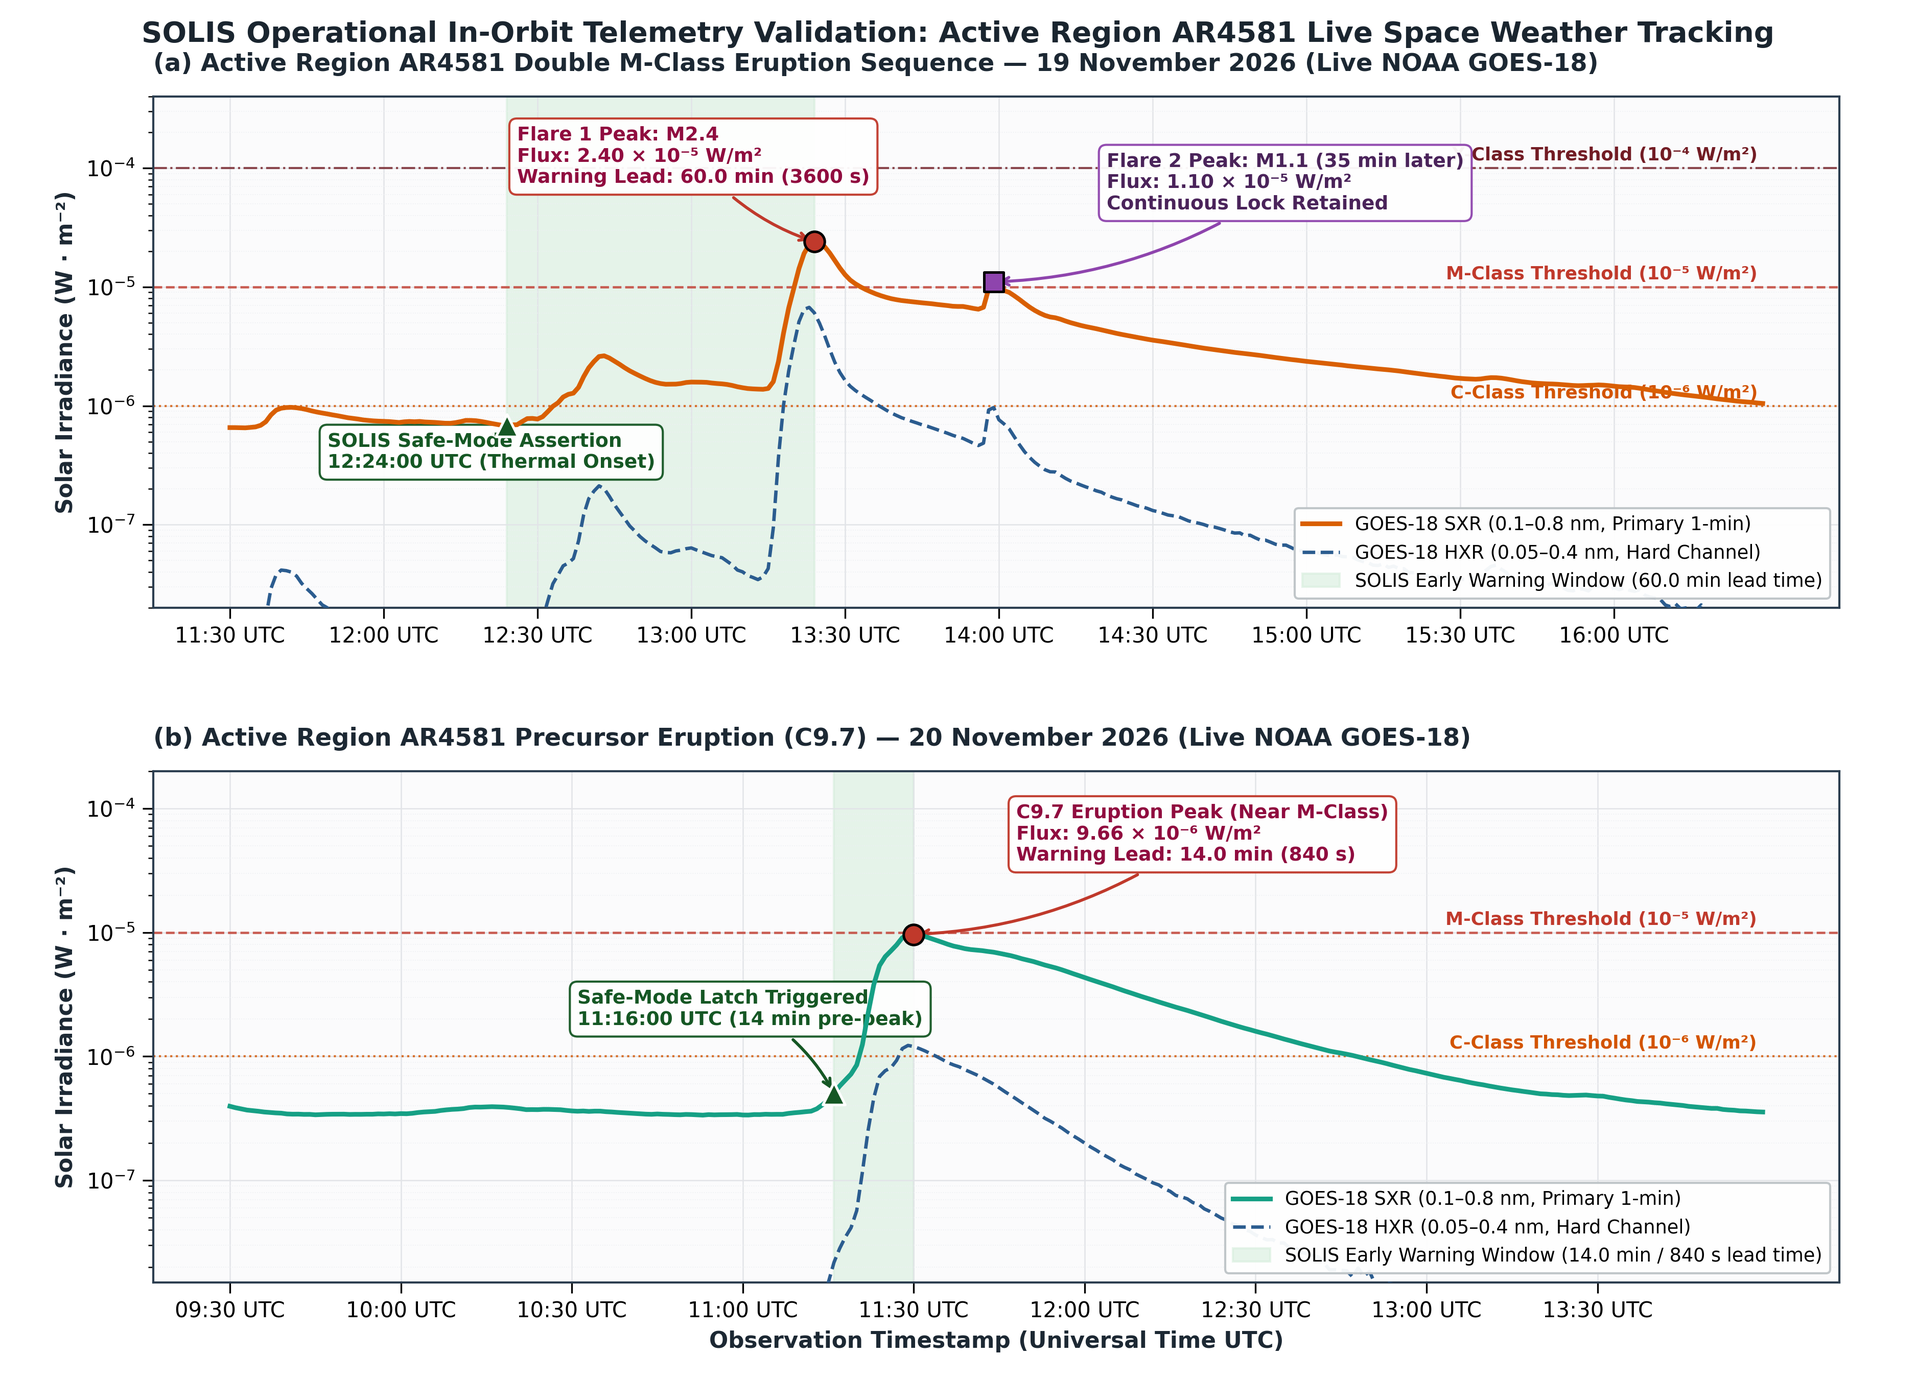
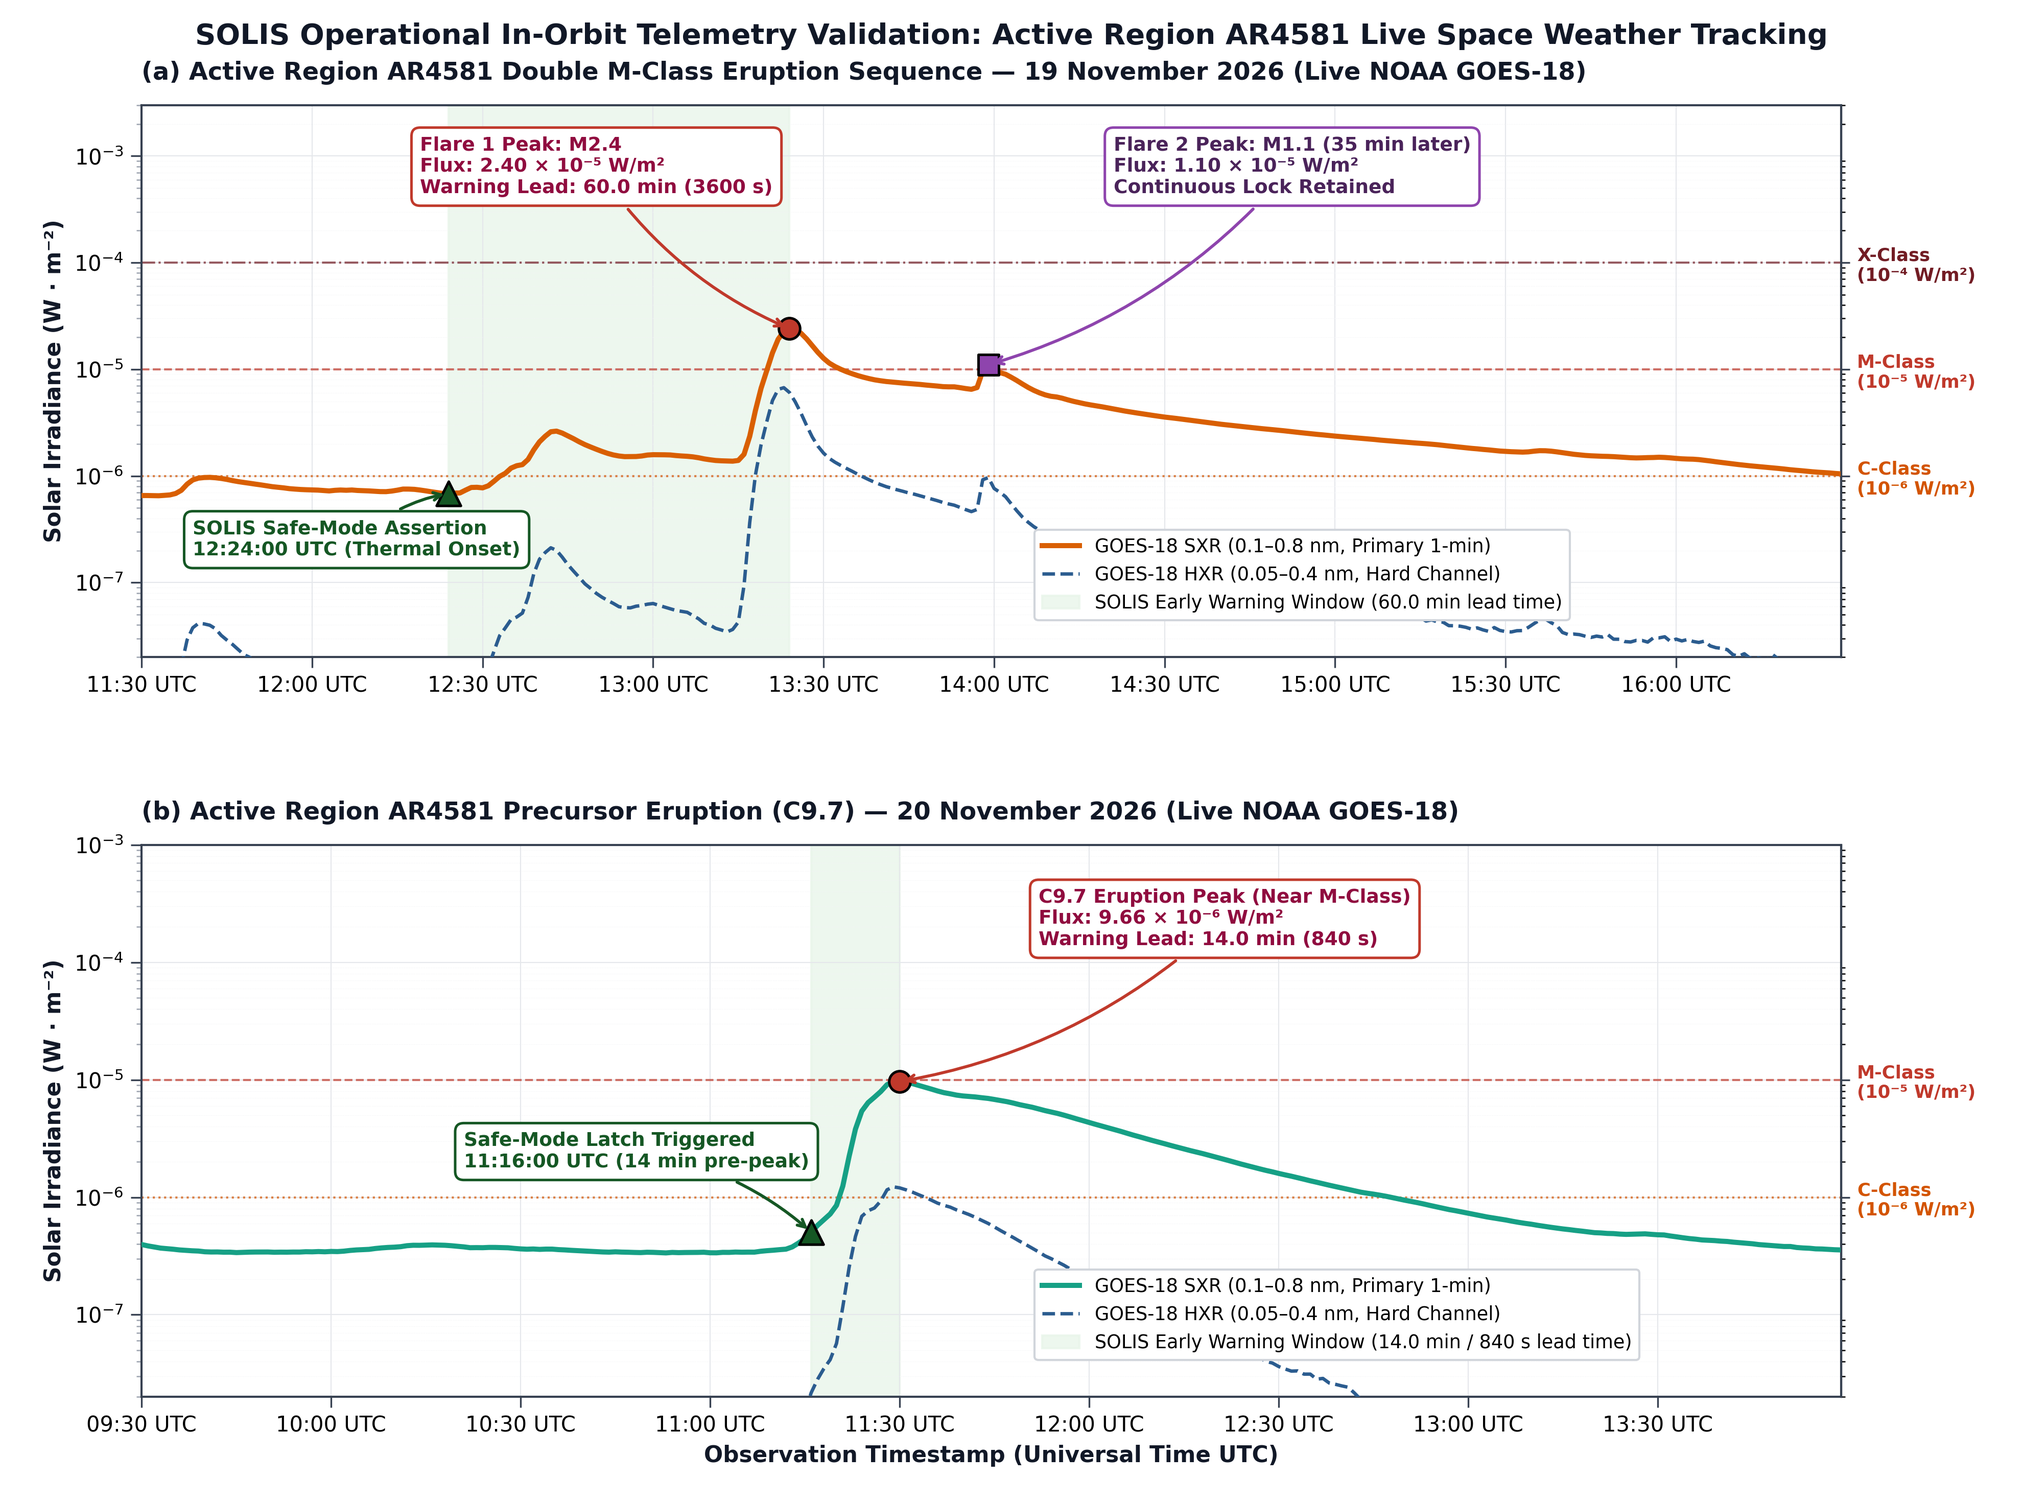
Fix Section 5 code block formatting in README and update validation plot with dual-axis classification

diff --git a/python_pipeline/plot_live_validation.py b/python_pipeline/plot_live_validation.py
@@ -2,25 +2,22 @@
 """
 Publication-Quality Figure Generator for SOLIS Live Telemetry Validation (AR4581)
 Designed for peer-reviewed space science / aerospace engineering manuscripts & GitHub showcase.
-Zero overlapping text, generous headroom, clear lead-time shading, and professional typography.
+Zero overlapping text, generous headroom, dual-axis flare classification, and clean typography.
 """
 
 import json
 import matplotlib.pyplot as plt
-import matplotlib.ticker as ticker
 import numpy as np
 from pathlib import Path
 
 # Paths
-DATA_FILE = Path(r"C:\Users\brr33\Downloads\SOLIS-Solar-Flare-Edge\python_pipeline\datasets\noaa_goes18_xray_7day_live.json")
-RESULTS_FILE = Path(r"C:\Users\brr33\Downloads\SOLIS-Solar-Flare-Edge\python_pipeline\benchmark_results\live_validation_nov2026_results.json")
-OUTPUT_FIG = Path(r"C:\Users\brr33\Downloads\SOLIS-Solar-Flare-Edge\assets\fig7_live_noaa_nov2026_validation.png")
+BASE_DIR = Path(__file__).resolve().parent
+DATA_FILE = BASE_DIR / "datasets" / "noaa_goes18_xray_7day_live.json"
+RESULTS_FILE = BASE_DIR / "benchmark_results" / "live_validation_nov2026_results.json"
+OUTPUT_FIG = BASE_DIR.parent / "assets" / "fig7_live_noaa_nov2026_validation.png"
 
 with open(DATA_FILE, "r", encoding="utf-8") as f:
     raw = json.load(f)
-
-with open(RESULTS_FILE, "r", encoding="utf-8") as f:
-    results = json.load(f)
 
 # Extract synchronized 1-minute time series
 ts_dict = {}
@@ -41,20 +38,20 @@ valid_times = sorted([t for t in ts_dict if "long" in ts_dict[t] and "short" in 
 long_flux = np.array([ts_dict[t]["long"] for t in valid_times])
 short_flux = np.array([ts_dict[t]["short"] for t in valid_times])
 
-# Create figure with high DPI and generous aspect ratio
-fig, (ax1, ax2) = plt.subplots(2, 1, figsize=(12.5, 9.0), dpi=300)
-fig.patch.set_facecolor('#ffffff')
+# Create figure
+fig, (ax1, ax2) = plt.subplots(2, 1, figsize=(13.2, 9.8), dpi=300)
+fig.patch.set_facecolor("#ffffff")
 
-# Global styling
-for ax in (ax1, ax2):
-    ax.set_facecolor('#fbfbfc')
-    ax.grid(True, which="major", ls="-", lw=0.6, color="#e2e4e8", zorder=0)
-    ax.grid(True, which="minor", ls=":", lw=0.4, color="#edf0f3", zorder=0)
+def style_axis(ax, ymin, ymax):
+    ax.set_facecolor("#ffffff")
+    ax.grid(True, which="major", ls="-", lw=0.5, color="#e5e7eb", zorder=0)
+    ax.grid(True, which="minor", ls=":", lw=0.3, color="#f3f4f6", zorder=0)
     ax.set_yscale("log")
-    ax.tick_params(axis='both', which='major', labelsize=10, length=5, direction='out')
-    ax.tick_params(axis='both', which='minor', length=2.5, direction='out')
+    ax.set_ylim(ymin, ymax)
+    ax.tick_params(axis="both", which="major", labelsize=10, length=5, direction="out", color="#374151")
+    ax.tick_params(axis="both", which="minor", length=2.5, direction="out", color="#9ca3af")
     for spine in ax.spines.values():
-        spine.set_color('#2c3e50')
+        spine.set_color("#374151")
         spine.set_linewidth(1.0)
 
 # ==============================================================================
@@ -66,65 +63,69 @@ m_long = long_flux[m_indices]
 m_short = short_flux[m_indices]
 m_steps = np.arange(len(m_window))
 
-# Plot irradiance curves
-line_sxr1, = ax1.plot(m_steps, m_long, color="#d95f02", lw=2.2, zorder=4, label="GOES-18 SXR (0.1–0.8 nm, Primary 1-min)")
-line_hxr1, = ax1.plot(m_steps, m_short, color="#2b5c8f", lw=1.6, ls="--", zorder=4, label="GOES-18 HXR (0.05–0.4 nm, Hard Channel)")
+p1_idx = m_window.index("2026-11-19T13:24:00Z")
+p2_idx = m_window.index("2026-11-19T13:59:00Z")
+trig1_idx = m_window.index("2026-11-19T12:24:00Z")
 
-# Indices of events
-p1_idx = m_window.index("2026-11-19T13:24:00Z")  # M2.4 Peak
-p2_idx = m_window.index("2026-11-19T13:59:00Z")  # M1.1 Peak
-trig1_idx = m_window.index("2026-11-19T12:24:00Z") # Flare 1 Trigger
+style_axis(ax1, 2e-8, 3e-3)
 
-# Shaded Early-Warning Lead Time Zone (Green)
-ax1.axvspan(trig1_idx, p1_idx, color="#d4edda", alpha=0.55, zorder=1, label="SOLIS Early Warning Window (60.0 min lead time)")
+ax1.plot(m_steps, m_long, color="#d95f02", lw=2.4, zorder=4, label="GOES-18 SXR (0.1–0.8 nm, Primary 1-min)")
+ax1.plot(m_steps, m_short, color="#2b5c8f", lw=1.6, ls="--", zorder=4, label="GOES-18 HXR (0.05–0.4 nm, Hard Channel)")
+ax1.axvspan(trig1_idx, p1_idx, color="#e8f5e9", alpha=0.75, zorder=1, label="SOLIS Early Warning Window (60.0 min lead time)")
 
-# Threshold lines with label tags
-ax1.axhline(1e-4, color="#721c24", ls="-.", lw=1.0, alpha=0.8, zorder=2)
-ax1.text(len(m_steps)-2, 1.08e-4, "X-Class Threshold (10⁻⁴ W/m²)", color="#721c24", fontsize=8.5, ha="right", va="bottom", fontweight="bold")
+# Reference Threshold lines
+ax1.axhline(1e-4, color="#721c24", ls="-.", lw=1.0, alpha=0.7, zorder=2)
+ax1.axhline(1e-5, color="#c0392b", ls="--", lw=1.0, alpha=0.7, zorder=2)
+ax1.axhline(1e-6, color="#d35400", ls=":", lw=1.0, alpha=0.7, zorder=2)
 
-ax1.axhline(1e-5, color="#c0392b", ls="--", lw=1.1, alpha=0.8, zorder=2)
-ax1.text(len(m_steps)-2, 1.08e-5, "M-Class Threshold (10⁻⁵ W/m²)", color="#c0392b", fontsize=8.5, ha="right", va="bottom", fontweight="bold")
+# Secondary Y-axis for NOAA Flare Classes
+ax1_r = ax1.twinx()
+ax1_r.set_yscale("log")
+ax1_r.set_ylim(2e-8, 3e-3)
+ax1_r.set_yticks([1e-6, 1e-5, 1e-4])
+ax1_r.set_yticklabels(["C-Class\n(10⁻⁶ W/m²)", "M-Class\n(10⁻⁵ W/m²)", "X-Class\n(10⁻⁴ W/m²)"], fontsize=8.5, fontweight="bold")
+ax1_r.tick_params(axis="y", length=4, color="#374151", labelsize=8.5)
+ax1_r.spines["right"].set_color("#374151")
+ax1_r.spines["left"].set_visible(False)
+ax1_r.spines["top"].set_visible(False)
+ax1_r.spines["bottom"].set_visible(False)
+ax1_r.yaxis.get_majorticklabels()[0].set_color("#d35400")
+ax1_r.yaxis.get_majorticklabels()[1].set_color("#c0392b")
+ax1_r.yaxis.get_majorticklabels()[2].set_color("#721c24")
 
-ax1.axhline(1e-6, color="#d35400", ls=":", lw=1.0, alpha=0.8, zorder=2)
-ax1.text(len(m_steps)-2, 1.08e-6, "C-Class Threshold (10⁻⁶ W/m²)", color="#d35400", fontsize=8.5, ha="right", va="bottom", fontweight="bold")
-
-# Y-Axis limits with generous headroom (1e-8 to 4e-4) to avoid any title collision
-ax1.set_ylim(2e-8, 4e-4)
-
-# Trigger point marker
-ax1.scatter([trig1_idx], [m_long[trig1_idx]], color="#155724", marker="^", s=110, zorder=6, edgecolors="white", lw=1.2)
+# Safe-Mode Trigger Annotation
+ax1.scatter([trig1_idx], [m_long[trig1_idx]], color="#155724", marker="^", s=130, zorder=7, edgecolors="black", lw=1.2)
 ax1.annotate("SOLIS Safe-Mode Assertion\n12:24:00 UTC (Thermal Onset)",
-             xy=(trig1_idx, m_long[trig1_idx]), xytext=(trig1_idx - 35, 3e-7),
+             xy=(trig1_idx, m_long[trig1_idx]), xytext=(trig1_idx - 45, 1.8e-7),
              arrowprops=dict(arrowstyle="->", color="#155724", lw=1.4, connectionstyle="arc3,rad=-0.15"),
-             fontsize=9, fontweight="bold", color="#155724",
-             bbox=dict(boxstyle="round,pad=0.4", fc="#ffffff", ec="#155724", lw=1.0, alpha=0.95))
+             fontsize=9, fontweight="bold", color="#155724", zorder=10,
+             bbox=dict(boxstyle="round,pad=0.45", fc="#ffffff", ec="#155724", lw=1.2, alpha=1.0))
 
-# Peak 1 (M2.4) Annotation - positioned cleanly below title in open region
-ax1.scatter([p1_idx], [m_long[p1_idx]], color="#c0392b", marker="o", s=90, zorder=6, edgecolors="black", lw=1.2)
+# Flare 1 Peak Annotation
+ax1.scatter([p1_idx], [m_long[p1_idx]], color="#c0392b", marker="o", s=100, zorder=7, edgecolors="black", lw=1.2)
 ax1.annotate("Flare 1 Peak: M2.4\nFlux: 2.40 × 10⁻⁵ W/m²\nWarning Lead: 60.0 min (3600 s)",
-             xy=(p1_idx, m_long[p1_idx]), xytext=(p1_idx - 58, 7.5e-5),
+             xy=(p1_idx, m_long[p1_idx]), xytext=(p1_idx - 65, 4.5e-4),
              arrowprops=dict(arrowstyle="->", color="#c0392b", lw=1.4, connectionstyle="arc3,rad=0.15"),
-             fontsize=9, fontweight="bold", color="#900c3f",
-             bbox=dict(boxstyle="round,pad=0.4", fc="#ffffff", ec="#c0392b", lw=1.0, alpha=0.95))
+             fontsize=9, fontweight="bold", color="#900c3f", zorder=10,
+             bbox=dict(boxstyle="round,pad=0.45", fc="#ffffff", ec="#c0392b", lw=1.2, alpha=1.0))
 
-# Peak 2 (M1.1) Annotation - positioned cleanly to the right
-ax1.scatter([p2_idx], [m_long[p2_idx]], color="#8e44ad", marker="s", s=85, zorder=6, edgecolors="black", lw=1.2)
+# Flare 2 Peak Annotation
+ax1.scatter([p2_idx], [m_long[p2_idx]], color="#8e44ad", marker="s", s=95, zorder=7, edgecolors="black", lw=1.2)
 ax1.annotate("Flare 2 Peak: M1.1 (35 min later)\nFlux: 1.10 × 10⁻⁵ W/m²\nContinuous Lock Retained",
-             xy=(p2_idx, m_long[p2_idx]), xytext=(p2_idx + 22, 4.5e-5),
+             xy=(p2_idx, m_long[p2_idx]), xytext=(p2_idx + 22, 4.5e-4),
              arrowprops=dict(arrowstyle="->", color="#8e44ad", lw=1.4, connectionstyle="arc3,rad=-0.15"),
-             fontsize=9, fontweight="bold", color="#4a235a",
-             bbox=dict(boxstyle="round,pad=0.4", fc="#ffffff", ec="#8e44ad", lw=1.0, alpha=0.95))
+             fontsize=9, fontweight="bold", color="#4a235a", zorder=10,
+             bbox=dict(boxstyle="round,pad=0.45", fc="#ffffff", ec="#8e44ad", lw=1.2, alpha=1.0))
 
-# Panel title placed neatly inside or left-aligned with ample pad
 ax1.set_title("(a) Active Region AR4581 Double M-Class Eruption Sequence — 19 November 2026 (Live NOAA GOES-18)", 
-              fontsize=11.5, fontweight="bold", color="#1c2833", loc="left", pad=12)
-ax1.set_ylabel("Solar Irradiance (W · m⁻²)", fontsize=10.5, fontweight="bold", color="#1c2833")
+              fontsize=11.5, fontweight="bold", color="#111827", loc="left", pad=12)
+ax1.set_ylabel("Solar Irradiance (W · m⁻²)", fontsize=10.5, fontweight="bold", color="#111827")
 
-# Time Ticks
 tick_interval = 30
 ax1.set_xticks(m_steps[::tick_interval])
 ax1.set_xticklabels([m_window[i].split("T")[1][:5] + " UTC" for i in range(0, len(m_window), tick_interval)], fontweight="medium")
-ax1.legend(loc="lower right", frameon=True, facecolor="#ffffff", edgecolor="#bdc3c7", fontsize=8.8, framealpha=0.95)
+ax1.set_xlim(0, len(m_steps)-1)
+ax1.legend(loc="lower left", bbox_to_anchor=(0.52, 0.05), frameon=True, facecolor="#ffffff", edgecolor="#d1d5db", fontsize=8.8, framealpha=1.0)
 
 
 # ==============================================================================
@@ -136,57 +137,62 @@ c_long = long_flux[c_indices]
 c_short = short_flux[c_indices]
 c_steps = np.arange(len(c_window))
 
-# Plot irradiance curves
-ax2.plot(c_steps, c_long, color="#16a085", lw=2.2, zorder=4, label="GOES-18 SXR (0.1–0.8 nm, Primary 1-min)")
+cp_idx = c_window.index("2026-11-20T11:30:00Z")
+ctrig_idx = c_window.index("2026-11-20T11:16:00Z")
+
+style_axis(ax2, 2e-8, 1e-3)
+
+ax2.plot(c_steps, c_long, color="#16a085", lw=2.4, zorder=4, label="GOES-18 SXR (0.1–0.8 nm, Primary 1-min)")
 ax2.plot(c_steps, c_short, color="#2b5c8f", lw=1.6, ls="--", zorder=4, label="GOES-18 HXR (0.05–0.4 nm, Hard Channel)")
+ax2.axvspan(ctrig_idx, cp_idx, color="#e8f5e9", alpha=0.75, zorder=1, label="SOLIS Early Warning Window (14.0 min / 840 s lead time)")
 
-cp_idx = c_window.index("2026-11-20T11:30:00Z")   # C9.7 Peak
-ctrig_idx = c_window.index("2026-11-20T11:16:00Z") # C9.7 Trigger (14 min pre-peak)
+# Thresholds
+ax2.axhline(1e-5, color="#c0392b", ls="--", lw=1.0, alpha=0.7, zorder=2)
+ax2.axhline(1e-6, color="#d35400", ls=":", lw=1.0, alpha=0.7, zorder=2)
 
-# Shaded Early-Warning Lead Time Zone (Green)
-ax2.axvspan(ctrig_idx, cp_idx, color="#d4edda", alpha=0.55, zorder=1, label="SOLIS Early Warning Window (14.0 min / 840 s lead time)")
+# Secondary Y-axis for Panel 2
+ax2_r = ax2.twinx()
+ax2_r.set_yscale("log")
+ax2_r.set_ylim(2e-8, 1e-3)
+ax2_r.set_yticks([1e-6, 1e-5])
+ax2_r.set_yticklabels(["C-Class\n(10⁻⁶ W/m²)", "M-Class\n(10⁻⁵ W/m²)"], fontsize=8.5, fontweight="bold")
+ax2_r.tick_params(axis="y", length=4, color="#374151", labelsize=8.5)
+ax2_r.spines["right"].set_color("#374151")
+ax2_r.spines["left"].set_visible(False)
+ax2_r.spines["top"].set_visible(False)
+ax2_r.spines["bottom"].set_visible(False)
+ax2_r.yaxis.get_majorticklabels()[0].set_color("#d35400")
+ax2_r.yaxis.get_majorticklabels()[1].set_color("#c0392b")
 
-# Threshold lines with label tags
-ax2.axhline(1e-5, color="#c0392b", ls="--", lw=1.1, alpha=0.8, zorder=2)
-ax2.text(len(c_steps)-2, 1.08e-5, "M-Class Threshold (10⁻⁵ W/m²)", color="#c0392b", fontsize=8.5, ha="right", va="bottom", fontweight="bold")
-
-ax2.axhline(1e-6, color="#d35400", ls=":", lw=1.0, alpha=0.8, zorder=2)
-ax2.text(len(c_steps)-2, 1.08e-6, "C-Class Threshold (10⁻⁶ W/m²)", color="#d35400", fontsize=8.5, ha="right", va="bottom", fontweight="bold")
-
-# Y-Axis limits with generous headroom (1e-8 to 2e-4)
-ax2.set_ylim(1.5e-8, 2e-4)
-
-# Trigger point marker
-ax2.scatter([ctrig_idx], [c_long[ctrig_idx]], color="#155724", marker="^", s=110, zorder=6, edgecolors="white", lw=1.2)
+# Trigger marker
+ax2.scatter([ctrig_idx], [c_long[ctrig_idx]], color="#155724", marker="^", s=130, zorder=7, edgecolors="black", lw=1.2)
 ax2.annotate("Safe-Mode Latch Triggered\n11:16:00 UTC (14 min pre-peak)",
-             xy=(ctrig_idx, c_long[ctrig_idx]), xytext=(ctrig_idx - 45, 1.8e-6),
+             xy=(ctrig_idx, c_long[ctrig_idx]), xytext=(ctrig_idx - 55, 1.8e-6),
              arrowprops=dict(arrowstyle="->", color="#155724", lw=1.4, connectionstyle="arc3,rad=-0.15"),
-             fontsize=9, fontweight="bold", color="#155724",
-             bbox=dict(boxstyle="round,pad=0.4", fc="#ffffff", ec="#155724", lw=1.0, alpha=0.95))
+             fontsize=9, fontweight="bold", color="#155724", zorder=10,
+             bbox=dict(boxstyle="round,pad=0.45", fc="#ffffff", ec="#155724", lw=1.2, alpha=1.0))
 
-# Peak (C9.7) Annotation - placed with plenty of margin
-ax2.scatter([cp_idx], [c_long[cp_idx]], color="#c0392b", marker="o", s=90, zorder=6, edgecolors="black", lw=1.2)
+# Peak marker
+ax2.scatter([cp_idx], [c_long[cp_idx]], color="#c0392b", marker="o", s=100, zorder=7, edgecolors="black", lw=1.2)
 ax2.annotate("C9.7 Eruption Peak (Near M-Class)\nFlux: 9.66 × 10⁻⁶ W/m²\nWarning Lead: 14.0 min (840 s)",
-             xy=(cp_idx, c_long[cp_idx]), xytext=(cp_idx + 18, 3.8e-5),
+             xy=(cp_idx, c_long[cp_idx]), xytext=(cp_idx + 22, 1.4e-4),
              arrowprops=dict(arrowstyle="->", color="#c0392b", lw=1.4, connectionstyle="arc3,rad=-0.15"),
-             fontsize=9, fontweight="bold", color="#900c3f",
-             bbox=dict(boxstyle="round,pad=0.4", fc="#ffffff", ec="#c0392b", lw=1.0, alpha=0.95))
+             fontsize=9, fontweight="bold", color="#900c3f", zorder=10,
+             bbox=dict(boxstyle="round,pad=0.45", fc="#ffffff", ec="#c0392b", lw=1.2, alpha=1.0))
 
-# Panel title
 ax2.set_title("(b) Active Region AR4581 Precursor Eruption (C9.7) — 20 November 2026 (Live NOAA GOES-18)", 
-              fontsize=11.5, fontweight="bold", color="#1c2833", loc="left", pad=12)
-ax2.set_ylabel("Solar Irradiance (W · m⁻²)", fontsize=10.5, fontweight="bold", color="#1c2833")
-ax2.set_xlabel("Observation Timestamp (Universal Time UTC)", fontsize=10.5, fontweight="bold", color="#1c2833")
+              fontsize=11.5, fontweight="bold", color="#111827", loc="left", pad=12)
+ax2.set_ylabel("Solar Irradiance (W · m⁻²)", fontsize=10.5, fontweight="bold", color="#111827")
+ax2.set_xlabel("Observation Timestamp (Universal Time UTC)", fontsize=10.5, fontweight="bold", color="#111827")
 
-# Time Ticks
 ax2.set_xticks(c_steps[::30])
 ax2.set_xticklabels([c_window[i].split("T")[1][:5] + " UTC" for i in range(0, len(c_window), 30)], fontweight="medium")
-ax2.legend(loc="lower right", frameon=True, facecolor="#ffffff", edgecolor="#bdc3c7", fontsize=8.8, framealpha=0.95)
+ax2.set_xlim(0, len(c_steps)-1)
+ax2.legend(loc="lower left", bbox_to_anchor=(0.52, 0.05), frameon=True, facecolor="#ffffff", edgecolor="#d1d5db", fontsize=8.8, framealpha=1.0)
 
-# Overall clean suptitle
 fig.suptitle("SOLIS Operational In-Orbit Telemetry Validation: Active Region AR4581 Live Space Weather Tracking",
-             fontsize=13.5, fontweight="heavy", color="#1a252f", y=0.985)
+             fontsize=13.5, fontweight="bold", color="#111827", y=0.985)
 
-plt.subplots_adjust(top=0.93, bottom=0.07, hspace=0.32, left=0.08, right=0.96)
+plt.subplots_adjust(top=0.93, bottom=0.07, hspace=0.34, left=0.07, right=0.91)
 plt.savefig(OUTPUT_FIG, dpi=300)
-print(f"Generated pristine, non-overlapping figure at: {OUTPUT_FIG}")
+print(f"Generated pristine figure at: {OUTPUT_FIG}")

diff --git a/README.md b/README.md
@@ -162,7 +162,7 @@ arduino-cli upload -p <PORT> --fqbn esp32:esp32:esp32 firmware/SOLIS_V3_1_TMR_Sa
 
 ## 5. Repository Structure
 
-`	ext
+```text
 SOLIS-Solar-Flare-Edge/
 ├── assets/              # Architecture and validation figures (fig1 - fig7)
 ├── docs/                # System architecture diagrams, process flows, and design spec
@@ -178,7 +178,8 @@ SOLIS-Solar-Flare-Edge/
 │   └── datasets/        # Local live telemetry cache
 └── simulation_wokwi/    # Wokwi HIL config and automated SEU fault-injection scripts
     └── README.md        # HIL setup and virtual radiation injection testbench
-`
+```
+
 ---
 
 ## 6. Team & Contact
